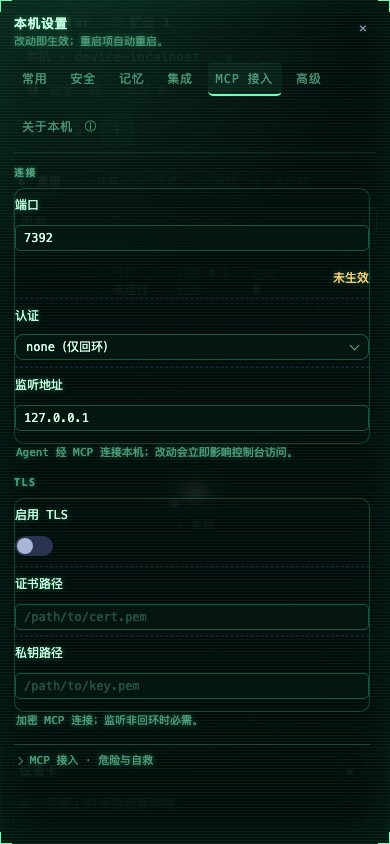
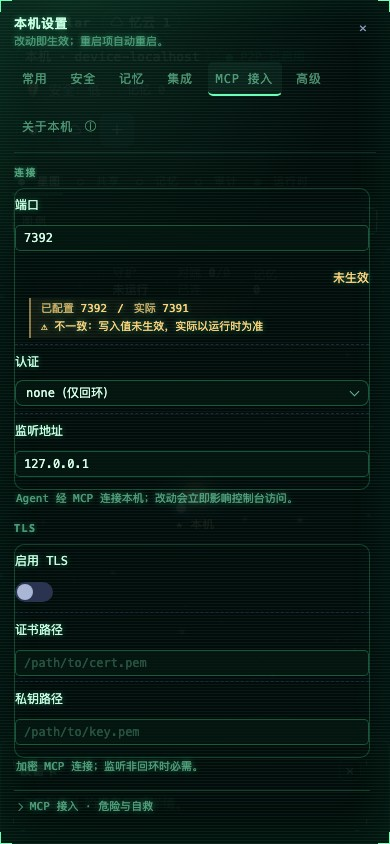
fix(console): always show exception triple below the field row
- move runtimeCompareLine() out of .cfg-row; render as a static 11px warning row
- move field.warn help out of the 40px row as well
- keep 40px row, no focus dependency, no popover; siblings only when anomalous
- assert warn status + visible triple + row 40 + no overflow in verify:console:ui
- refresh MCP screenshots and u3/u4 docs

diff --git a/packages/console/console.css b/packages/console/console.css
@@ -2746,8 +2746,7 @@ html[lang="en-US"] .btn-small { line-height: 1.5; }
   box-shadow: 0 10px 24px rgba(0, 0, 0, 0.45);
 }
 .cfg-row:focus-within > .cfg-help,
-.cfg-row:focus-within > .cfg-effective,
-.cfg-row > .cfg-help.cfg-warn { display: block; }
+.cfg-row:focus-within > .cfg-effective { display: block; }
 .cfg-row > .cfg-effective { flex-wrap: wrap; gap: 0 8px; }
 .cfg-row > .cfg-help.cfg-warn { position: static; margin: 4px 0 0; border: 0; background: none; box-shadow: none; padding: 0; }
 .cfg-row .cfg-warn-mark { margin-left: 4px; }
@@ -3139,3 +3138,30 @@ html[lang="en-US"] .btn-small { line-height: 1.5; }
 /* 常用页在 720 + 40 提示条下要留余量：组间距 12、滚动区上内边距 8 */
 .modal-settings .settings-scroll { padding-top: 8px; }
 .settings-group { margin-top: 12px; }
+
+/* 异常三元组：行下静态 11px 警告行（默认可见，不依赖 focus / 不藏 popover）。
+   .cfg-row 仍是 40；说明行独立占高，无异常时不存在。 */
+.cfg-row + .cfg-effective {
+  position: static;
+  display: flex; flex-wrap: wrap; gap: 2px 10px;
+  margin: 0 14px 6px; padding: 3px 0 3px 10px;
+  border-left: 2px solid rgba(255, 210, 122, 0.55);
+  background: linear-gradient(90deg, rgba(255, 210, 122, 0.06), transparent 70%);
+  font-size: 11px; line-height: 16px; color: #ffd27a;
+  overflow-wrap: anywhere;
+}
+.cfg-row + .cfg-effective .cfg-eff-key { color: #ffd27a; opacity: 0.8; }
+.cfg-row + .cfg-effective .cfg-reason { display: inline; margin: 0; font-size: 11px; color: #ffd27a; }
+.cfg-row + .cfg-effective .cfg-pending { color: #ffd27a; }
+.cfg-row + .cfg-effective .cfg-warn { color: #ffd27a; }
+.cfg-row + .cfg-effective.is-mismatch { color: #ffd27a; }
+
+/* 字段风险说明：行下静态 11px（与异常三元组同视觉，默认可见） */
+.cfg-row + .cfg-warn-line {
+  margin: 0 14px 6px; padding: 3px 0 3px 10px;
+  border-left: 2px solid rgba(255, 210, 122, 0.55);
+  background: linear-gradient(90deg, rgba(255, 210, 122, 0.06), transparent 70%);
+  font-size: 11px; line-height: 16px; color: #ffd27a;
+  overflow-wrap: anywhere;
+}
+.cfg-row + .cfg-warn-line + .cfg-effective { margin-top: 0; }

diff --git a/packages/console/console.js b/packages/console/console.js
@@ -1439,15 +1439,15 @@ function renderCfgField(field) {
   const helpBits = [
     field.help ? `<p class="cfg-help muted">${escapeHtml(field.help)}</p>` : '',
     foldedReason ? `<p class="cfg-help muted">${escapeHtml(foldedReason)}</p>` : '',
-    field.warn ? `<p class="cfg-help cfg-warn">⚠ ${escapeHtml(field.warn)}</p>` : '',
   ].filter(Boolean);
+  // 风险说明与异常三元组都放在 40px 行之外：行下静态 11px 警告，默认可见、不依赖 focus。
+  const warnLine = field.warn ? `<p class="settings-warn-line cfg-warn-line">⚠ ${escapeHtml(field.warn)}</p>` : '';
   return `<div class="cfg-row">
     <label class="cfg-label" for="${id}">${escapeHtml(field.label)}${defaultTag}${warnMark}</label>
     <div class="cfg-control">${control}</div>
     ${runtimeStatusCell(field)}
-    ${runtimeCompareLine(field)}
     ${helpBits.join('')}
-  </div>`;
+  </div>${warnLine}${runtimeCompareLine(field)}`;
 }
 
 // 单一行模板：label | value | action 三列固定（动作列不撑高行；空值统一 muted 占位）

diff --git a/docs/console/screens/u4-settings-redesign/README.md b/docs/console/screens/u4-settings-redesign/README.md
@@ -10,6 +10,7 @@
 - **竖轨**：≥901px 为左侧 **188px** 固定页签轨（`常用 / 安全 / 记忆 / 集成 / MCP 接入 / 高级`，底部「关于本机 ⓘ」）；**≤900px** 折叠为顶部横排；**≤760px** 顶部横排 + 只读行改为上下两行；**≤560px** 全屏无边框。
 - **900 档**：顶部横排后内容区变矮，**允许竖向滚动**（正常行、正常滚动）；只读行仍是 40px、label/value 同一行，禁止套 390 的堆叠规则。
 - **统一行模板**：字段行 `label | control | status`，只读行 `label | value | action`；40px + 行间虚线；常驻/忆云两行信息 58px；警告/帮助独立成行。
+- **异常可见性**：`pending` / `mismatch` 的完整三元组（已配置 / 实际 / 原因）默认作为行下静态 11px 警告行显示，不依赖 focus、不藏 popover；行本身仍 40px，无异常时没有这行。
 - **安全卡**：三张同构 114px（安全等级 / 动态码种子 / 恢复码），19px 状态值；`is-effective` 实心点 + 左侧荧光条，`is-off` 空心点；待批准条只在有记录时置顶（40px）。
 - **关于本机**：三组（身份与存储 / 运行与同步 / 诊断与恢复）+ 三折叠，40px 行；旧 about 的 43 项字段全量保留（见 `../../../console/ABOUT-PARITY` 对应原型清单），不新增日志路径。
 - **常驻「更多」**：行内 `summary` + 浮层菜单（`aria-haspopup="menu"` / `aria-expanded`，Esc / 点外关闭，`position: fixed` 不被弹层裁切）；主操作仍直接可见。
@@ -26,7 +27,7 @@
 | `u4-after-settings-common-banner-1440.jpg` | 常用 + 40px 待重启条：单行、动作右对齐、不挤压内容 |
 | `u4-after-settings-security-1440.jpg` | 安全：三张 114 卡 + 19px 状态值（无待批准时不显示条件条） |
 | `u4-after-settings-memory-1440.jpg` | 记忆：记忆模式（轻量 MCP / 沉浸式）/ 模型来源（heuristic/local/host/api/auto）/ 运行状态 |
-| `u4-after-settings-mcp-1440.jpg` | MCP：连接 / TLS 两组 + 端口不一致独立警告行 |
+| `u4-after-settings-mcp-1440.jpg` | MCP：连接 / TLS 两组；端口未生效时行下可见「已配置 / 实际 / 原因」 |
 | `u4-after-settings-advanced-1440.jpg` | 高级：常驻服务 / 网络 / 自动化 + 诊断折叠 |
 | `u4-after-settings-rail-scrolled-1440.jpg` | 记忆页滚动后：标题、竖轨、底部「关于本机」不动 |
 | `u4-after-settings-about-overlay-1440.jpg` | 关于本机叠在设置之上（设置不关闭），三组 + 折叠 |
@@ -86,7 +87,7 @@ MEBULAR_CLOUD_ROOT=/tmp/mebular-v2-home node packages/mcp/bin/mebular.mjs serve 
 4. `C8f 模型列表 760px：单列卡片、无横向滚动`
 5. `UI 冒烟执行（页面求值失败：TypeError: Cannot read properties of null (reading 'click')）`
 
-该失败在改动前的 HEAD 上同样复现（stash 后连跑两次一致），与 v2 无关；其余 **48/53** 通过。
+该失败在改动前的 HEAD 上同样复现（stash 后连跑两次一致），与 v2 无关；其余 **51/56** 通过（含 900 行模板与异常可见性两条新断言）。
 
 ## 人工走查结论
 
@@ -107,3 +108,4 @@ MEBULAR_CLOUD_ROOT=/tmp/mebular-v2-home node packages/mcp/bin/mebular.mjs serve 
 1. `900` 断点曾误把只读行压成上下两行（`grid-column: 1`），行高从 40 涨到 ~80、常用内容 659.7。已把堆叠规则移到 **≤760**，900 保持三列/同行；修复后 900 常用内容 **539.7 / 535**（仅 4.7 竖向滚动），行高 40、dt/value top 差 0。
 2. 待重启/应用结果条从多行块收成 **40px** 单行（字段清单与手动指引进 `title`）。
 3. 关于本机由 8 段单折叠改为三组 + 三折叠，40 行；43 项字段 parity。
+4. 异常三元组原先被 v2 的 `.cfg-row > .cfg-effective { display:none }` 隐藏，只能聚焦看到；现移到行外做静态警告行，`pending/mismatch` 默认可见，行仍 40。

diff --git a/docs/console/screens/u3/README.md b/docs/console/screens/u3/README.md
@@ -1,4 +1,4 @@
-> **v2 刷新（2026-11-11）**：设置壳改为 760×720（关于 760×680）、左轨 188；安全三卡统一 114 + 19px 状态值，MCP 端口不一致改为独立警告行，高级保留真实 checkbox/输入（26px）。本目录 `u3-after-settings-security*.jpg`、`u3-after-settings-mcp*.jpg`、`u3-after-settings-advanced*.jpg`（含 900/390 与展开态）已按 v2 重新生成；全量基线见 `../u4-settings-redesign/`。
+> **v2 刷新（2026-11-11）**：设置壳改为 760×720（关于 760×680）、左轨 188；安全三卡统一 114 + 19px 状态值，MCP 端口不一致在行下给出默认可见的 11px 三元组（已配置 / 实际 / 原因），高级保留真实 checkbox/输入（26px）。本目录 `u3-after-settings-security*.jpg`、`u3-after-settings-mcp*.jpg`、`u3-after-settings-advanced*.jpg`（含 900/390 与展开态）已按 v2 重新生成；全量基线见 `../u4-settings-redesign/`。
 
 # U-3 · 设置页设计收口（安全 / MCP / 高级）
 
